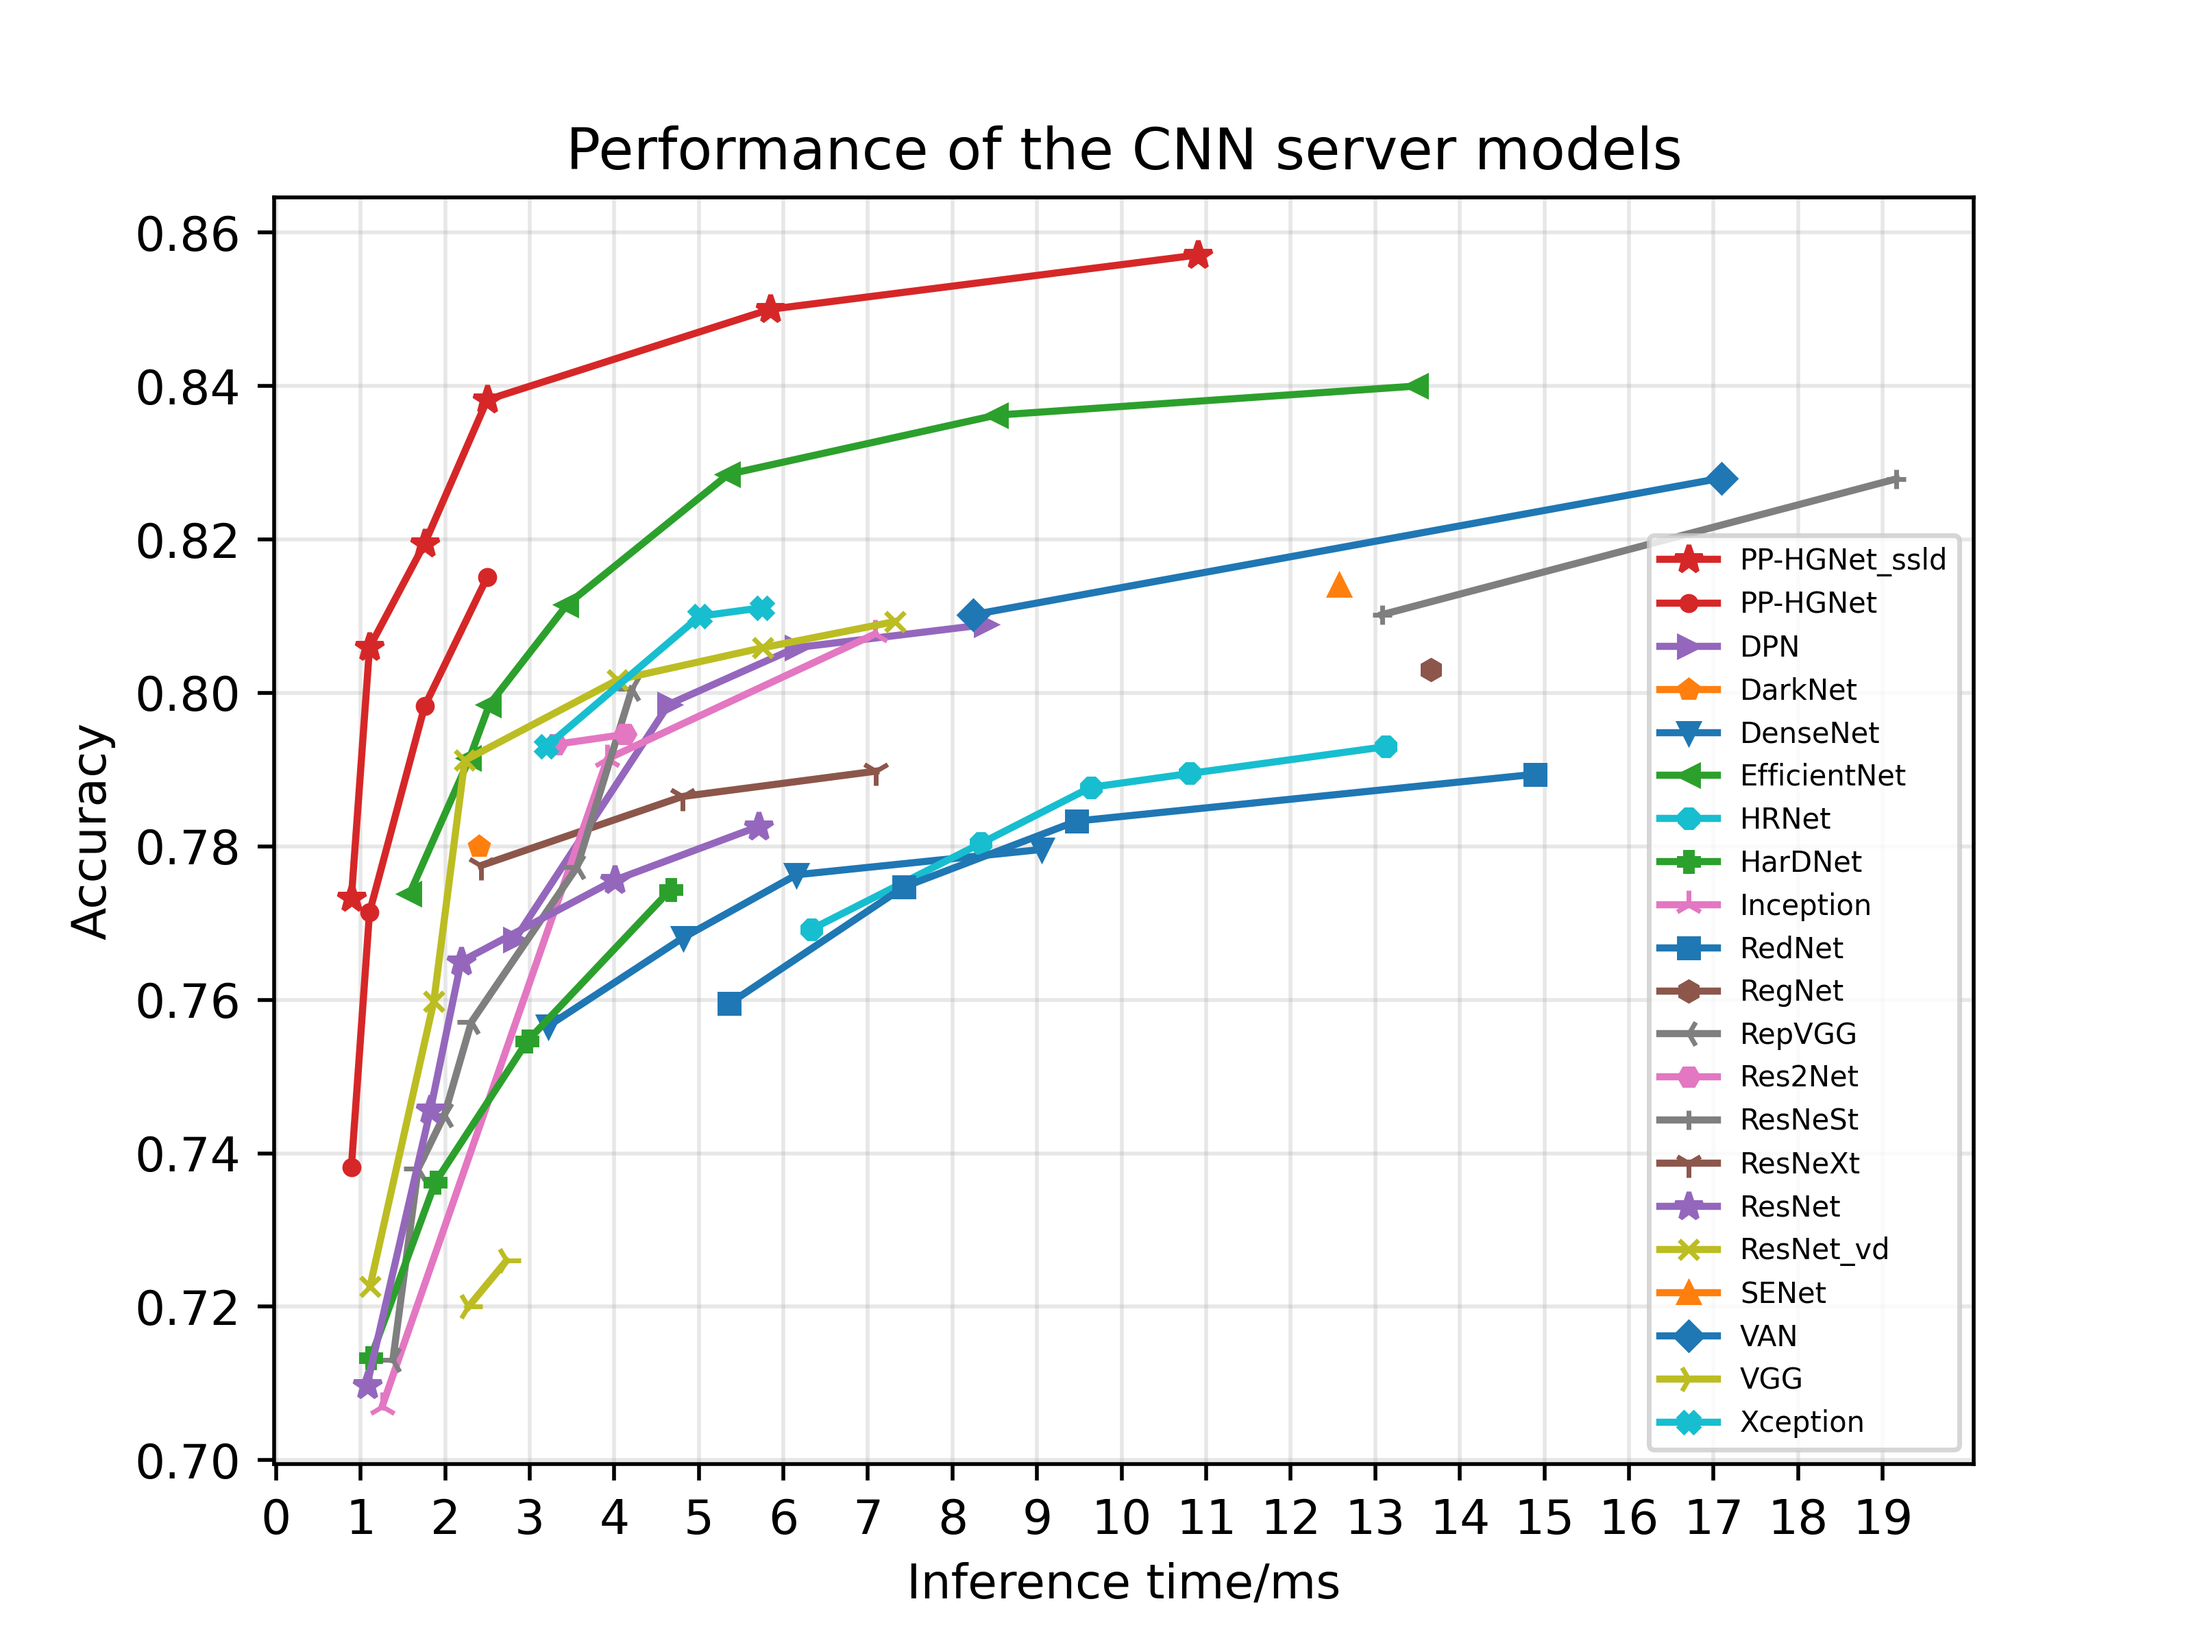
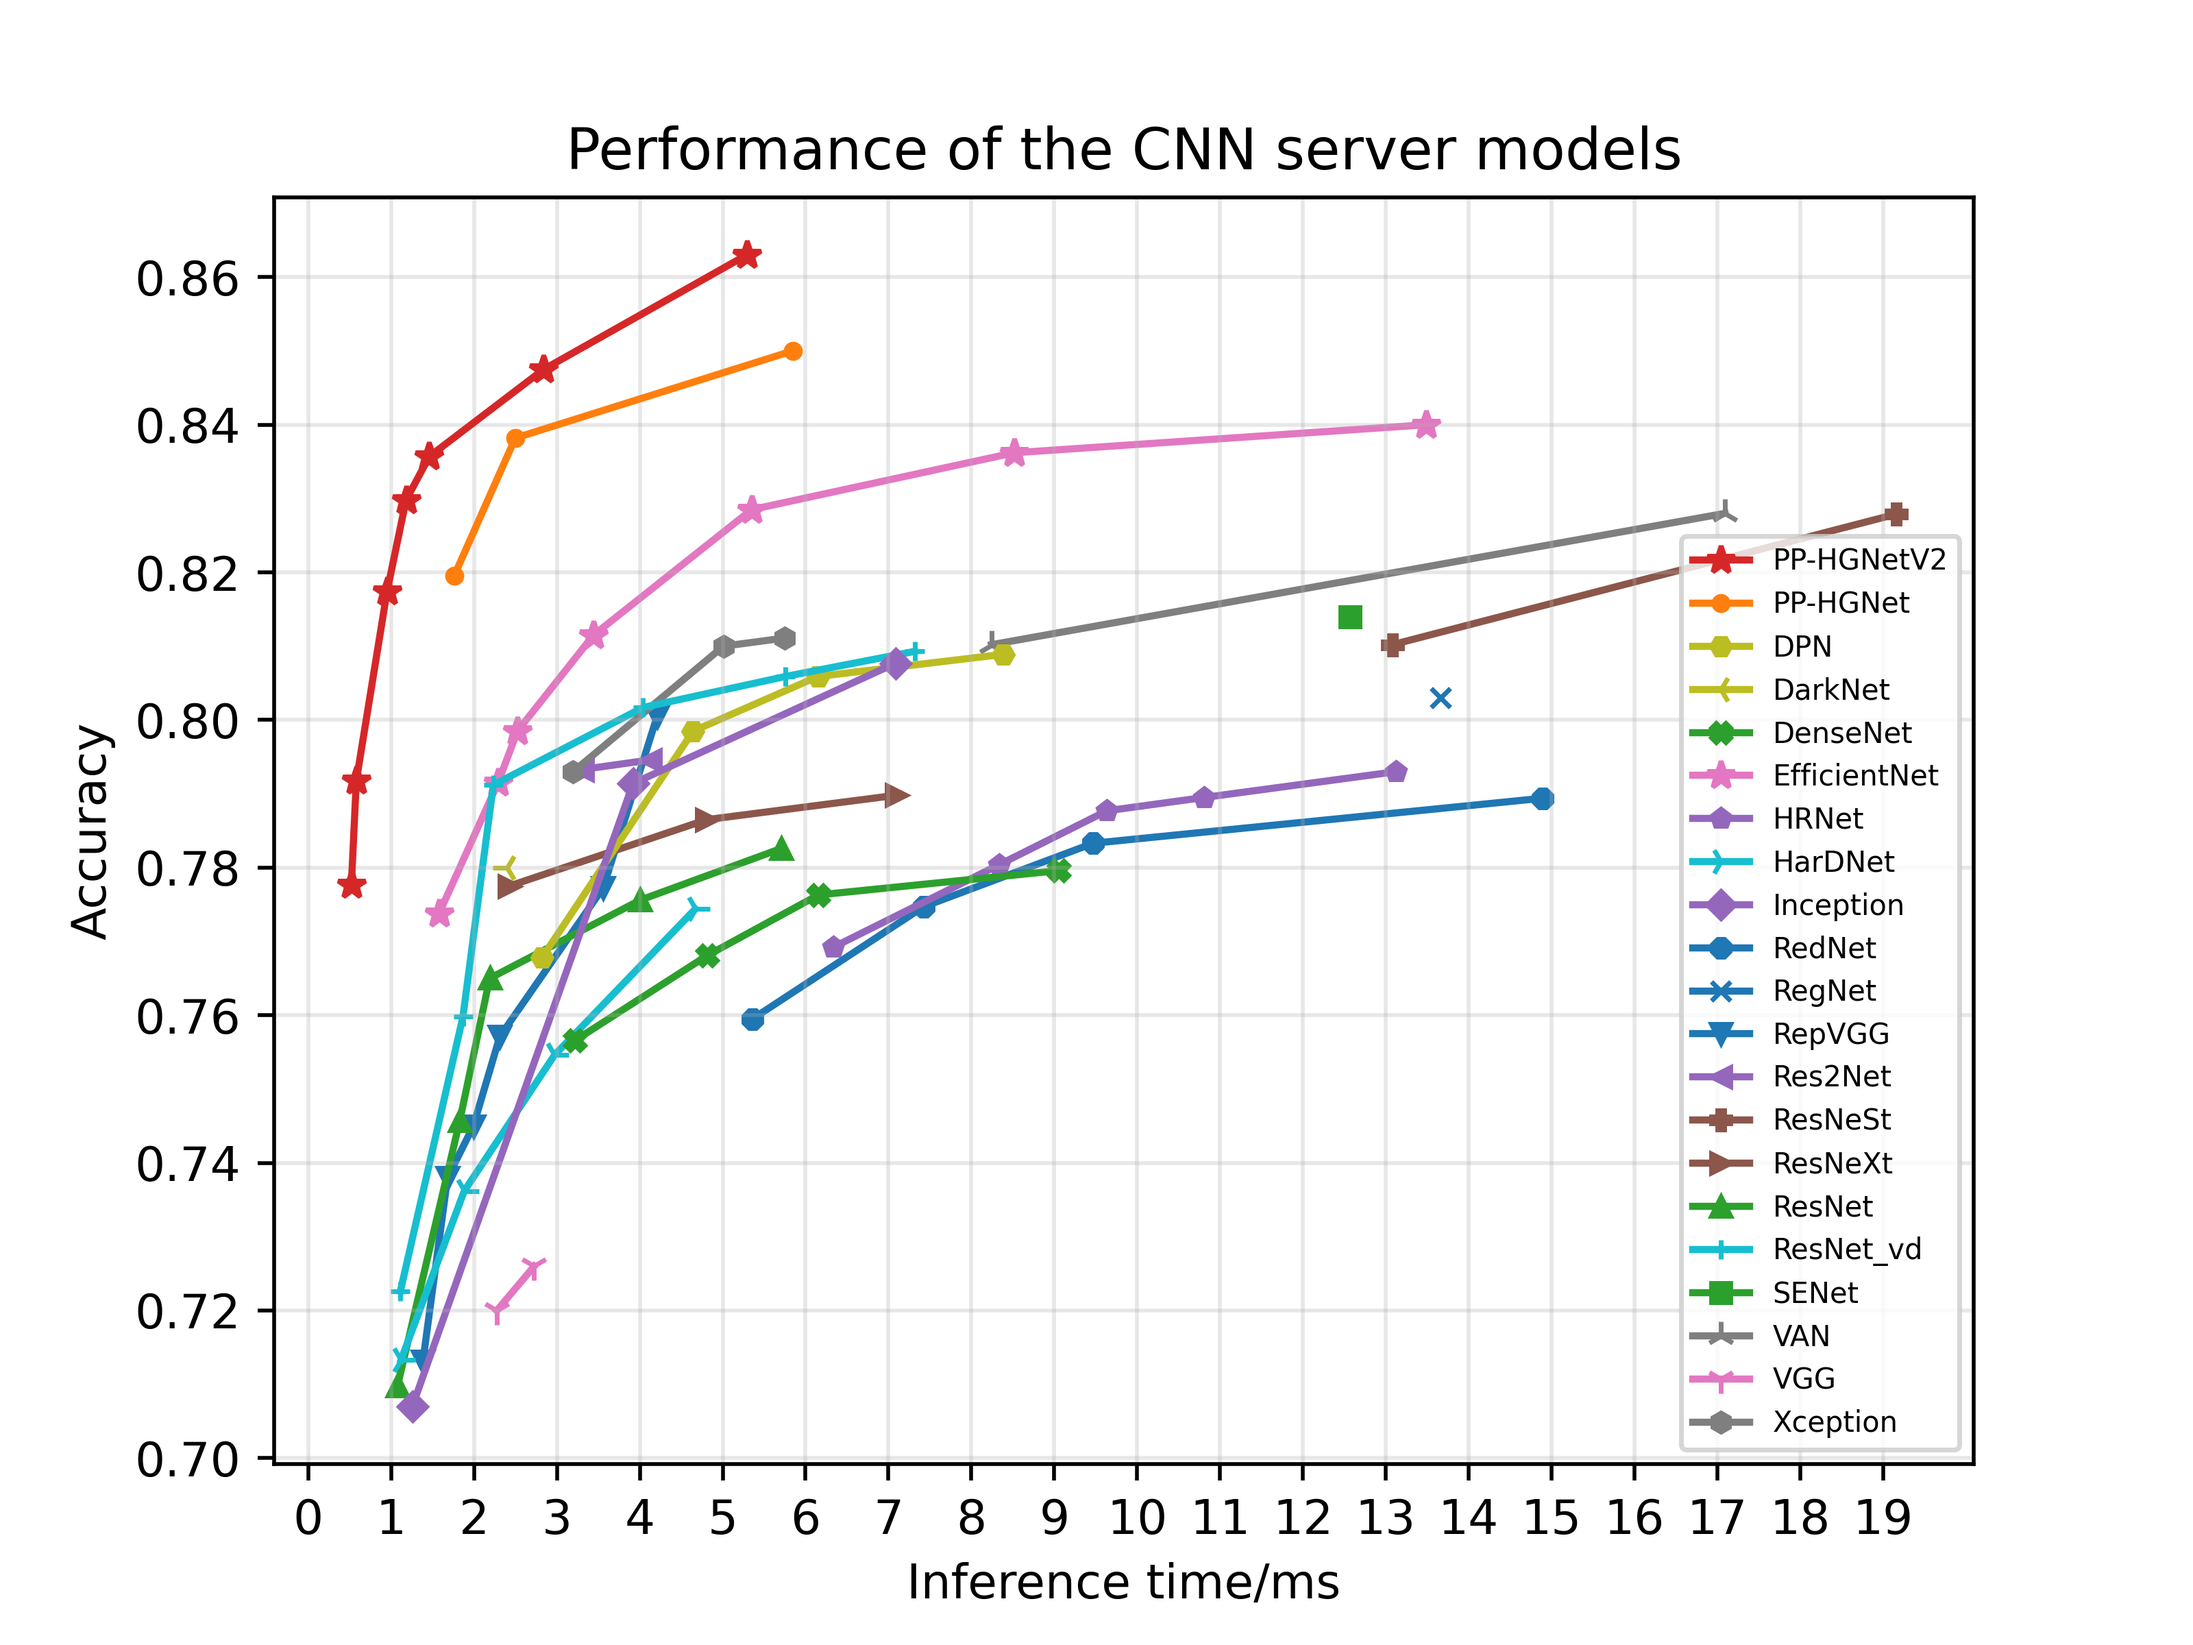
update doc about PPHGNetV2

diff --git a/docs/zh_CN/models/ImageNet1k/PP-HGNetV2.md b/docs/zh_CN/models/ImageNet1k/PP-HGNetV2.md
@@ -30,7 +30,11 @@
 
 ### 1.1 模型简介
 
-PP-HGNetV2(High Performance GPU Network V2) 是百度飞桨视觉团队自研的 PP-HGNet 的下一代版本，其在 PP-HGNet 的基础上，做了进一步优化和改进，最终在 NVIDIA GPU 设备上，将 "Accuracy-Latency Balance" 做到了极致，精度大幅超过了其他同样推理速度的模型。其在单标签分类、多标签分类、目标检测、语义分割等任务中，均有较强的表现。
+PP-HGNetV2(High Performance GPU Network V2) 是百度飞桨视觉团队自研的 PP-HGNet 的下一代版本，其在 PP-HGNet 的基础上，做了进一步优化和改进，最终在 NVIDIA GPU 设备上，将 "Accuracy-Latency Balance" 做到了极致，精度大幅超过了其他同样推理速度的模型。其在单标签分类、多标签分类、目标检测、语义分割等任务中，均有较强的表现，与常见的服务器端模型在精度-预测耗时的比较如下图所示。
+
+![](../../../images/models/V100_benchmark/v100.fp32.bs1.main_fps_top1_s.png)
+
+* GPU 评估环境基于 V100 机器，在 FP32+TensorRT 配置下运行 2100 次测得（去除前 100 次的 warmup 时间）。
 
 <a name='1.2'></a>
 
